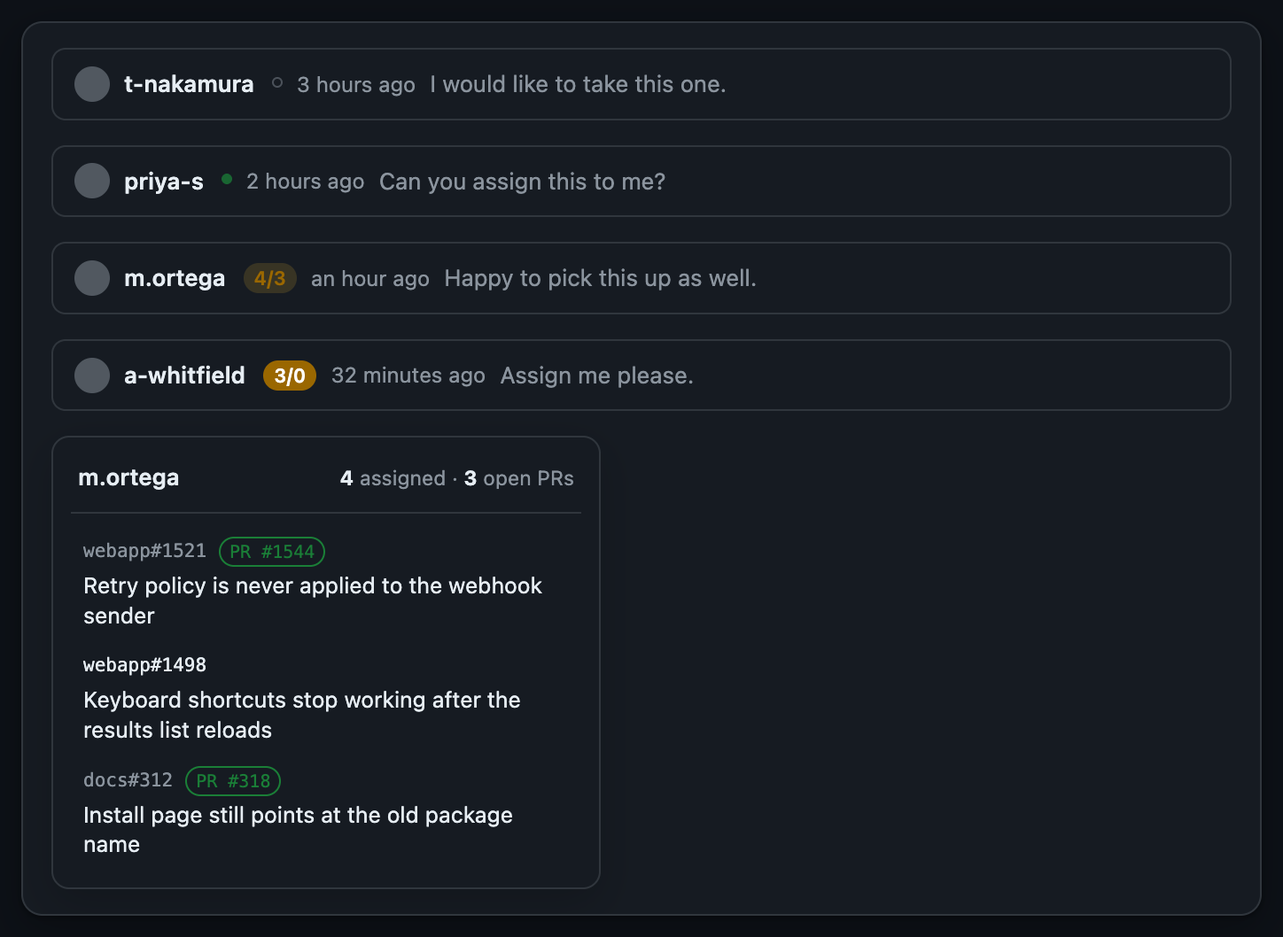
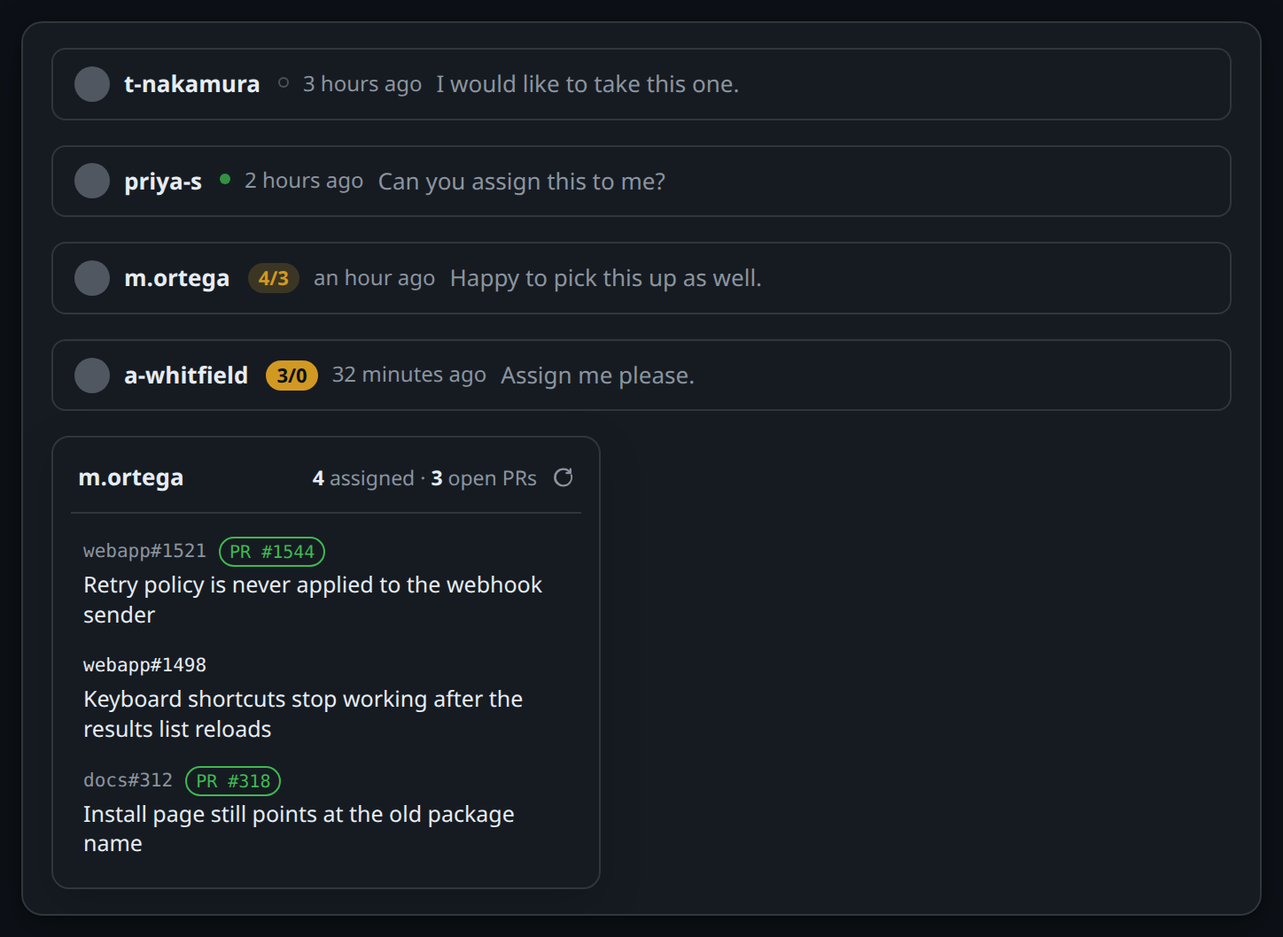
fix(load): retry unreadable marks and complete the docs
Review follow-ups for the contributor load mark: a failed read now shows up again once a retry works, passing over a name no longer reads it, and the site, settings page, README and privacy policy cover the feature everywhere the other badges are described.

- A mark that could not be read is replaced when hovering the name again succeeds, instead of staying red while the fresh answer is discarded.
- Leaving a username before the hover delay cancels the pending read, so moving the pointer across a thread does not query every name it touches.
- The refresh button in the card updates every mark for that person on the page, not only the one it was opened from.
- An empty limit field on the settings page saves the default of 1 instead of 0.
- The settings card drops the "New" pill, lists the red outlined mark for a failed read and says counts cover the repositories the token can read; the legend counts are no longer italic.
- The site mock-up uses the site's own colour tokens, so it follows the dark theme, and its card shows the refresh button.
- The badge reference on the site lists the contributor load marks, the settings intro and the "What is sent" card mention them, "How it works" gains a step for the hover query, and two FAQ entries explain the hover-only read and which issues are counted.
- README notes the token scope, the failed-read mark and the hover-only read; `PRIVACY.md` lists the contributor read in the request summary and the host permission.
[…]

diff --git a/docs/index.html b/docs/index.html
@@ -303,29 +303,32 @@
 
     /* Contributor load: a comment header carrying the mark, and the card it opens */
     .mock-load { display: flex; flex-direction: column; gap: 14px; }
-    .mock-load .cmt { display: flex; align-items: center; gap: 8px; padding: 9px 12px; border: 1px solid var(--border); border-radius: 8px; background: var(--card); font-size: 13px; }
-    .mock-load .av { width: 20px; height: 20px; border-radius: 50%; background: var(--muted-bg, #8b949e); opacity: .5; flex: none; }
+    .mock-load .cmt { display: flex; align-items: center; gap: 8px; padding: 9px 12px; border: 1px solid var(--border); border-radius: 8px; background: var(--bg-card); font-size: 13px; }
+    .mock-load .av { width: 20px; height: 20px; border-radius: 50%; background: var(--fg-muted); opacity: .5; flex: none; }
     .mock-load .who { font-weight: 600; }
-    .mock-load .when { color: var(--muted-fg, #8b949e); font-size: 12px; }
-    .mock-load .said { color: var(--muted-fg, #8b949e); }
+    .mock-load .when { color: var(--fg-muted); font-size: 12px; }
+    .mock-load .said { color: var(--fg-muted); }
     .ld { display: inline-block; vertical-align: baseline; margin-left: 2px; }
     .ld-dot { width: 6px; height: 6px; border-radius: 50%; position: relative; top: -1px; }
-    .ld-free { background: transparent; box-shadow: inset 0 0 0 1px var(--muted-fg, #8b949e); opacity: .45; }
-    .ld-at { background: var(--green-fg, #1a7f37); opacity: .75; }
-    .ld-n { padding: 0 6px; border-radius: 9999px; font-size: 11px; font-weight: 600; line-height: 17px; font-variant-numeric: tabular-nums; color: var(--yellow-fg, #9a6700); background: var(--yellow-bg, rgba(212,167,44,.18)); }
-    .ld-idle { color: #fff; background: var(--yellow-fg, #9a6700); }
-    .mock-load .card2 { width: 310px; padding: 10px; border: 1px solid var(--border); border-radius: 10px; background: var(--card); box-shadow: 0 8px 24px rgba(0,0,0,.18); }
-    .mock-load .ch { display: flex; align-items: baseline; justify-content: space-between; gap: 10px; padding: 2px 4px 9px; margin-bottom: 7px; border-bottom: 1px solid var(--border); }
+    .ld-free { background: transparent; box-shadow: inset 0 0 0 1px var(--fg-muted); opacity: .45; }
+    .ld-at { background: var(--success); opacity: .75; }
+    .ld-n { padding: 0 6px; border-radius: 9999px; font-size: 11px; font-weight: 600; line-height: 17px; font-variant-numeric: tabular-nums; color: var(--attention); background: var(--attention-bg); }
+    .ld-idle { color: var(--bg); background: var(--attention); }
+    .ld-err { background: transparent; box-shadow: inset 0 0 0 1px var(--danger); }
+    .palette .bs .ld { margin: 0; align-self: center; top: 0; }
+    .mock-load .card2 { width: 310px; padding: 10px; border: 1px solid var(--border); border-radius: 10px; background: var(--bg-card); box-shadow: 0 8px 24px rgba(0,0,0,.18); }
+    .mock-load .ch { display: flex; align-items: center; gap: 9px; padding: 2px 4px 9px; margin-bottom: 7px; border-bottom: 1px solid var(--border); }
     .mock-load .cn { font-size: 13px; font-weight: 600; }
-    .mock-load .cs { font-size: 11.5px; color: var(--muted-fg, #8b949e); white-space: nowrap; }
+    .mock-load .cs { margin-left: auto; font-size: 11.5px; color: var(--fg-muted); white-space: nowrap; }
     .mock-load .cs b { color: var(--fg); }
-    .mock-load .cs .zero { color: var(--yellow-fg, #9a6700); }
+    .mock-load .cs .zero { color: var(--attention); }
     .mock-load .cr { display: flex; flex-direction: column; gap: 2px; padding: 6px 7px; border-radius: 6px; }
     .mock-load .cm { display: flex; align-items: center; gap: 7px; }
     .mock-load .cref { font-family: ui-monospace, SFMono-Regular, Menlo, monospace; font-size: 10.5px; font-weight: 500; color: var(--fg); }
-    .mock-load .cr.linked .cref { color: var(--muted-fg, #8b949e); }
-    .mock-load .cpr { padding: 0 5px; border: 1px solid var(--green-fg, #1a7f37); border-radius: 9999px; font-family: ui-monospace, SFMono-Regular, Menlo, monospace; font-size: 10px; line-height: 15px; color: var(--green-fg, #1a7f37); }
+    .mock-load .cr.linked .cref { color: var(--fg-muted); }
+    .mock-load .cpr { padding: 0 5px; border: 1px solid var(--success); border-radius: 9999px; font-family: ui-monospace, SFMono-Regular, Menlo, monospace; font-size: 10px; line-height: 15px; color: var(--success); }
     .mock-load .ct { font-size: 12.5px; line-height: 1.35; }
+      .mock-load .crf { width: 12px; height: 12px; fill: var(--fg-muted); flex: none; }
   </style>
 </head>
 <body>
@@ -498,7 +501,7 @@
         <div class="cmt"><span class="av"></span><span class="who">m.ortega</span><span class="ld ld-n">4/3</span><span class="when">an hour ago</span><span class="said">Happy to pick this up as well.</span></div>
         <div class="cmt"><span class="av"></span><span class="who">a-whitfield</span><span class="ld ld-n ld-idle">3/0</span><span class="when">32 minutes ago</span><span class="said">Assign me please.</span></div>
         <div class="card2">
-          <div class="ch"><span class="cn">m.ortega</span><span class="cs"><b>4</b> assigned &middot; <b>3</b> open PRs</span></div>
+          <div class="ch"><span class="cn">m.ortega</span><span class="cs"><b>4</b> assigned &middot; <b>3</b> open PRs</span><svg class="crf" viewBox="0 0 16 16" aria-hidden="true"><path d="M8 2.5a5.5 5.5 0 1 0 5.17 3.63.75.75 0 0 1 1.41.5A7 7 0 1 1 8 1a6.97 6.97 0 0 1 4.5 1.64V1.75a.75.75 0 0 1 1.5 0v3a.75.75 0 0 1-.75.75h-3a.75.75 0 0 1 0-1.5h1.3A5.47 5.47 0 0 0 8 2.5Z"/></svg></div>
           <div class="cr linked"><div class="cm"><span class="cref">webapp#1521</span><span class="cpr">PR #1544</span></div><div class="ct">Retry policy is never applied to the webhook sender</div></div>
           <div class="cr"><div class="cm"><span class="cref">webapp#1498</span></div><div class="ct">Keyboard shortcuts stop working after the results list reloads</div></div>
           <div class="cr linked"><div class="cm"><span class="cref">docs#312</span><span class="cpr">PR #318</span></div><div class="ct">Install page still points at the old package name</div></div>
@@ -509,7 +512,7 @@
       <h3 style="margin-top:28px">Every badge at a glance</h3>
       <p class="muted" style="font-size:14px">Colours follow GitHub's own tokens, so they adapt to light and dark themes. Green invites a look, yellow means attention, red means work, blue is trust, gray is neutral information.</p>
       <div class="panel gh-card palette" id="ex-palette" style="max-width:760px;padding:14px 16px">
-        <div class="g"><div class="gt">Pull request author</div><div class="bs"><span class="badge b-success">First-time contributor</span><span class="badge b-success">First PR on GitHub</span><span class="badge b-done">External</span><span class="badge b-neutral">Contributor</span><span class="badge b-info">Collaborator</span><span class="badge b-info">Member</span><span class="badge b-info">Owner</span><span class="badge b-neutral">Bot</span></div></div><div class="g"><div class="gt">Pull request fork and size</div><div class="bs"><span class="badge b-neutral">From fork</span><span class="badge b-neutral size"><span class="add">+231</span> <span class="del">-13</span></span></div></div><div class="g"><div class="gt">Pull request merge state</div><div class="bs"><span class="badge b-success">Mergeable</span><span class="badge b-attention">Behind base</span><span class="badge b-danger">Blocked</span><span class="badge b-danger">Conflicts</span><span class="badge b-attention">Checks failing</span></div></div><div class="g"><div class="gt">Issue age, and past the threshold</div><div class="bs"><span class="badge b-neutral">3w</span><span class="badge b-neutral">98d</span><span class="badge b-neutral">this month</span><span class="badge b-attention">7 mo</span></div></div><div class="g"><div class="gt">Custom field values, one colour per option</div><div class="bs"><span class="badge b-danger">Red</span><span class="badge b-severe">Orange</span><span class="badge b-attention">Yellow</span><span class="badge b-success">Green</span><span class="badge b-info">Blue</span><span class="badge b-done">Purple</span><span class="badge b-pink">Pink</span><span class="badge b-neutral">Gray</span></div></div><div class="g"><div class="gt">Issue types in the pinned issues panel</div><div class="bs"><span class="badge b-pink">Epic</span><span class="badge b-danger">Bug</span><span class="badge b-info">Feature</span><span class="badge b-attention">Task</span></div></div>
+        <div class="g"><div class="gt">Pull request author</div><div class="bs"><span class="badge b-success">First-time contributor</span><span class="badge b-success">First PR on GitHub</span><span class="badge b-done">External</span><span class="badge b-neutral">Contributor</span><span class="badge b-info">Collaborator</span><span class="badge b-info">Member</span><span class="badge b-info">Owner</span><span class="badge b-neutral">Bot</span></div></div><div class="g"><div class="gt">Pull request fork and size</div><div class="bs"><span class="badge b-neutral">From fork</span><span class="badge b-neutral size"><span class="add">+231</span> <span class="del">-13</span></span></div></div><div class="g"><div class="gt">Pull request merge state</div><div class="bs"><span class="badge b-success">Mergeable</span><span class="badge b-attention">Behind base</span><span class="badge b-danger">Blocked</span><span class="badge b-danger">Conflicts</span><span class="badge b-attention">Checks failing</span></div></div><div class="g"><div class="gt">Issue age, and past the threshold</div><div class="bs"><span class="badge b-neutral">3w</span><span class="badge b-neutral">98d</span><span class="badge b-neutral">this month</span><span class="badge b-attention">7 mo</span></div></div><div class="g"><div class="gt">Contributor load: nothing assigned, within the limit, over it, over it with nothing pushed, not readable</div><div class="bs"><span class="ld ld-dot ld-free"></span><span class="ld ld-dot ld-at"></span><span class="ld ld-n">4/3</span><span class="ld ld-n ld-idle">3/0</span><span class="ld ld-dot ld-err"></span></div></div><div class="g"><div class="gt">Custom field values, one colour per option</div><div class="bs"><span class="badge b-danger">Red</span><span class="badge b-severe">Orange</span><span class="badge b-attention">Yellow</span><span class="badge b-success">Green</span><span class="badge b-info">Blue</span><span class="badge b-done">Purple</span><span class="badge b-pink">Pink</span><span class="badge b-neutral">Gray</span></div></div><div class="g"><div class="gt">Issue types in the pinned issues panel</div><div class="bs"><span class="badge b-pink">Epic</span><span class="badge b-danger">Bug</span><span class="badge b-info">Feature</span><span class="badge b-attention">Task</span></div></div>
       </div>
 
       <h3 style="margin-top:28px">Pinned issues</h3>
@@ -539,6 +542,7 @@
         <div class="step"><h3>One batched query</h3><p>The background script (a service worker on Chromium, an event page on Firefox) groups those issues by repository and runs one GraphQL query per batch of 60 using <code>Issue.issueFieldValues</code> and <code>createdAt</code>, with your token. Pull request lists get the same treatment with <code>authorAssociation</code>, size and <code>mergeStateStatus</code>.</p></div>
         <div class="step"><h3>Keep what you chose</h3><p>From the returned values it keeps only the fields you configured, in your order, and hands back <code>field</code>, <code>value</code>, <code>colour</code> and the creation date per issue.</p></div>
         <div class="step"><h3>Or draw a board</h3><p>When the kanban toggle is on, the sub-issues of the open issue are read in one <code>subIssues</code> query with every field value they carry, and drawn as columns in place of the list. Grouping, ordering and filtering happen in the page, so switching any of them is instant. Dropping a card in another column is the one write: <code>createIssueFieldValue</code> for a field, <code>closeIssue</code> or <code>reopenIssue</code> for the state, with the card moving back if GitHub refuses.</p></div>
+        <div class="step"><h3>Or ask about a person</h3><p>With the contributor load mark on, hovering a username runs two <code>search</code> queries in one request: the open issues assigned to that login in the organization, and the open pull requests they authored, with <code>closingIssuesReferences</code> pairing each issue with the pull request that closes it. Nothing is read until you hover, and each person is cached for ten minutes.</p></div>
         <div class="step"><h3>Render badges</h3><p>The content script inserts a badge per value right after the issue type badge, after the issue number in project tables, or under the title on board cards, plus the age badge when enabled. It re-renders when GitHub redraws the page.</p></div>
       </div>
       <pre><code>{ r0: repository(owner: "org", name: "repo") {
@@ -615,7 +619,7 @@
   <section id="settings">
     <div class="wrap">
       <h2>Settings</h2>
-      <p class="muted">The token and the fields to show are the two essentials; the age badge, the pull request badges, the epic kanban toggle, the sidebar button and the pinned issues button are optional extras with their own cards. Each field is a chip. Press <kbd>Enter</kbd> or <kbd>,</kbd> to add one, <kbd>Backspace</kbd> or the × button to remove one. Names are matched case-insensitively against the fields your organization defines, and badges appear in the order of the chips. Nothing is shown until at least one field is added or the age badge is enabled.</p>
+      <p class="muted">The token and the fields to show are the two essentials; the age badge, the pull request badges, the contributor load mark, the epic kanban toggle, the sidebar button and the pinned issues button are optional extras with their own cards. Each field is a chip. Press <kbd>Enter</kbd> or <kbd>,</kbd> to add one, <kbd>Backspace</kbd> or the × button to remove one. Names are matched case-insensitively against the fields your organization defines, and badges appear in the order of the chips. Nothing is shown until at least one field is added or the age badge is enabled.</p>
       <figure>
         <img class="only-light" src="settings-light.png" alt="The settings page: token input and the field names chip box">
         <img class="only-dark" src="settings-dark.png" alt="The settings page in dark mode: token input and the field names chip box">
@@ -642,7 +646,7 @@
       <h2>Privacy</h2>
       <div class="grid">
         <div class="card"><h3>What is stored</h3><p>Your token, your field list, your preferences and your pinned issues, in <code>chrome.storage.local</code>, on your device. Uninstalling removes all of it.</p></div>
-        <div class="card"><h3>What is sent</h3><p>Repository owner, name and issue number of the issues on the page you are viewing, to <code>api.github.com</code>, with your token in the header. The only writes are the sub-issue link you click and the card you drag on the board. Nothing else, to no one else.</p></div>
+        <div class="card"><h3>What is sent</h3><p>Repository owner, name and issue number of the issues on the page you are viewing, to <code>api.github.com</code>, with your token in the header. With the contributor load mark on, the login you hover and the organization of the page. The only writes are the sub-issue link you click and the card you drag on the board. Nothing else, to no one else.</p></div>
         <div class="card"><h3>What is not</h3><p>No analytics, telemetry, crash reports, cookies or third-party services. The full policy is in <a href="https://github.com/MilosPaunovic/github-issue-toolkit/blob/main/PRIVACY.md">PRIVACY.md</a>.</p></div>
       </div>
     </div>
@@ -657,6 +661,8 @@
       <details><summary>Can I move a card on the kanban board?</summary><p>Yes, when the columns come from a single-select field or from the issue state: dragging a card writes the new field value, or closes and reopens the issue, through the GitHub API; an issue closed as not planned is closed that way again. Dropping it in the "No <em>field</em>" column clears the value. Columns made of types or assignees are not drop targets, and cards there cannot be dragged. Dragging needs a token with write access; it can be switched off in the settings, and nothing is ever written unless you drag.</p></details>
       <details><summary>Can I see only one sprint, or only the P1 issues?</summary><p>Yes. The Filter control keeps one value of any dimension, the same ones the columns can be made of, and the count in the toolbar says how many of the epic's sub-issues are left. Filtering happens in the page, so the columns stay as they are and switching back costs nothing.</p></details>
       <details><summary>Can I hide the done sub-issues?</summary><p>Yes. The Hide closed checkbox in the toolbar takes every closed sub-issue off the board, whatever the columns are made of, and the count in the toolbar says how many are left. The choice is remembered like the others. With the columns made of the issue state, the empty Closed column stays, so a card can still be dragged there to close it.</p></details>
+      <details><summary>Why does a username get a mark only after I hover it?</summary><p>Because each mark is a query about one person. Reading every name on a long thread up front would spend requests on people you never meant to look at, so the contributor load mark waits for you to rest on a name. Your own name never gets one. A red outlined dot means the read failed, usually because no token is set; hovering the name again retries.</p></details>
+      <details><summary>Which issues does the contributor count include?</summary><p>Open issues assigned to that person in the organization of the page, and open pull requests they authored there, as GitHub search returns them for your token. A repository your token cannot read is left out, so a fine-grained token limited to a few repositories counts only those. The pull request shown next to an issue comes from GitHub's own link between them, not from closing keywords.</p></details>
       <details><summary>The kanban board says the epic has more sub-issues than it shows.</summary><p>The board loads up to 500 sub-issues, in pages of 100. Beyond that the count in the toolbar reads "500 of 640" and the rest is left out.</p></details>
       <details><summary>Where does the sidebar go when I hide it?</summary><p>Nowhere: the extension sets <code>display: none</code> on GitHub's metadata column, the same thing GitHub does when its own artifacts panel opens, and its content area grows into the space by itself. The chevron stays in the gutter, so pressing it again brings the sidebar straight back. Nothing is changed on GitHub's side and nothing is sent anywhere.</p></details>
       <details><summary>Does linking need extra permissions?</summary><p>Yes. Making an issue a sub-issue of a pinned epic writes to GitHub, so the token needs write access to the issue's repository: the <code>repo</code> scope on a classic token, or <code>Issues: Read and write</code> on a fine-grained one. Badges alone work with read-only access.</p></details>

diff --git a/options.html b/options.html
@@ -61,16 +61,17 @@
     .card { background: var(--bg-surface); border: 1px solid var(--border-default); border-radius: 12px; padding: 24px; margin-bottom: 16px; }
     .card.access { border-color: var(--accent); }
     .card h2 { font-size: 15px; font-weight: 600; margin: 0 0 4px; }
-    .card h2 .new { margin-left: 8px; padding: 1px 7px; border: 1px solid rgba(26, 127, 55, 0.4); border-radius: 9999px; background: rgba(26, 127, 55, 0.12); color: #1a7f37; font-size: 11px; font-weight: 600; vertical-align: 1px; }
     .marks { display: grid; grid-template-columns: 28px 1fr; gap: 10px 10px; align-items: center; margin-top: 14px; }
     .marks > span:nth-child(odd) { display: flex; justify-content: center; }
     .marks .t { color: var(--text-secondary); font-size: 13px; }
     .marks .t b { color: var(--text-primary); font-weight: 600; }
+    .marks i { font-style: normal; }
     .mk-dot { width: 7px; height: 7px; border-radius: 50%; display: inline-block; }
     .mk-free { box-shadow: inset 0 0 0 1px var(--text-secondary); opacity: .5; }
     .mk-at { background: #1a7f37; opacity: .8; }
     .mk-n { padding: 1px 6px; border-radius: 9999px; font-size: 11px; font-weight: 600; font-variant-numeric: tabular-nums; color: #9a6700; background: rgba(154, 103, 0, 0.14); }
     .mk-idle { color: #ffffff; background: #9a6700; }
+    .mk-err { box-shadow: inset 0 0 0 1px #d1242f; }
     .card p.desc { color: var(--text-secondary); margin: 0 0 16px; font-size: 13px; }
     label { display: block; font-weight: 600; font-size: 13px; margin: 16px 0 6px; }
     label:first-of-type { margin-top: 0; }
@@ -129,10 +130,10 @@
     @media (prefers-color-scheme: dark) {
       .chip.c0 { --chip-fg: #58a6ff; } .chip.c1 { --chip-fg: #a371f7; } .chip.c2 { --chip-fg: #3fb950; }
       .chip.c3 { --chip-fg: #f0883e; } .chip.c4 { --chip-fg: #db61a2; } .chip.c5 { --chip-fg: #8b949e; }
-      .card h2 .new { border-color: rgba(63, 185, 80, 0.4); background: rgba(63, 185, 80, 0.15); color: #3fb950; }
       .mk-at { background: #3fb950; }
       .mk-n { color: #d29922; background: rgba(210, 153, 34, 0.16); }
       .mk-idle { color: #1f2328; background: #d29922; }
+      .mk-err { box-shadow: inset 0 0 0 1px #ff8182; }
       .chip button:hover { background: rgba(255, 255, 255, 0.12); }
     }
     kbd { font: 11px var(--font-mono); padding: 1px 5px; border: 1px solid var(--border-default); border-bottom-width: 2px; border-radius: 4px; background: var(--code-bg); }
@@ -225,7 +226,7 @@
     </section>
 
     <section class="card">
-      <h2>Contributor load <span class="new">New</span></h2>
+      <h2>Contributor load</h2>
       <p class="desc">On an issue or pull request, a mark next to a username saying what that person already holds in the same organization. For deciding whether to assign someone one more thing.</p>
       <label class="check"><input id="load-enabled" type="checkbox"> Show what each contributor is holding (off by default)</label>
       <label for="load-limit">Flag anyone assigned more than (issues)</label>
@@ -236,8 +237,9 @@
         <span><i class="mk-dot mk-at"></i></span><span class="t">At or under the limit.</span>
         <span><i class="mk-n">4/3</i></span><span class="t">Over the limit. <b>Four assigned, three pull requests open.</b></span>
         <span><i class="mk-n mk-idle">3/0</i></span><span class="t">Over the limit and <b>nothing pushed yet</b>.</span>
+        <span><i class="mk-dot mk-err"></i></span><span class="t">Could not be read, usually a missing token. Hover the name again to retry.</span>
       </div>
-      <p class="hint">Hovering the mark lists every issue that person holds, each with the pull request that closes it when there is one, and carries a refresh button for when the ten minute cache is behind. Your own name gets no mark.</p>
+      <p class="hint">Hovering the mark lists every issue that person holds, each with the pull request that closes it when there is one, and carries a refresh button for when the ten minute cache is behind. Your own name gets no mark. Counts cover the repositories your token can read, so a fine-grained token limited to a few repositories sees only those.</p>
     </section>
 
     <section class="card">

diff --git a/content.js b/content.js
@@ -690,8 +690,14 @@
     if (!anchor.isConnected) return;
     // A read that failed is worth trying again the next time the name is hovered.
     if (!data) delete anchor.dataset.gsfLoad;
-    if (anchor.nextElementSibling && anchor.nextElementSibling.classList.contains("gsf-load")) return;
-    anchor.after(loadBadge(org, login, data));
+    const badge = loadBadge(org, login, data);
+    const existing = anchor.nextElementSibling;
+    if (existing && existing.classList.contains("gsf-load")) {
+      // Only a mark that could not be read gives way, so a retry that worked shows up.
+      if (existing.dataset.state === "err") existing.replaceWith(badge);
+      return;
+    }
+    anchor.after(badge);
   }
 
   function loadCardElement() {
@@ -842,11 +848,14 @@
     if (loadCard) loadCard.dataset.busy = "1";
     const data = await loadFetch(org, login, true);
     if (loadCard) delete loadCard.dataset.busy;
-    if (loadAnchor && loadAnchor.isConnected) {
-      const fresh = loadBadge(org, login, data);
-      loadAnchor.replaceWith(fresh);
-      loadAnchor = fresh;
-    }
+    // Every mark for the same person, not only the hovered one, since the cache now holds the new answer.
+    document.querySelectorAll(".gsf-load").forEach((mark) => {
+      const payload = loadPayloads.get(mark);
+      if (!payload || payload.org !== org || payload.login.toLowerCase() !== login.toLowerCase()) return;
+      const fresh = loadBadge(org, payload.login, data);
+      mark.replaceWith(fresh);
+      if (mark === loadAnchor) loadAnchor = fresh;
+    });
     loadCardBuild({ org, login, data });
     if (loadAnchor && loadAnchor.isConnected) loadCardPlace(loadAnchor);
   }
@@ -912,7 +921,12 @@
   });
 
   document.addEventListener("mouseout", (event) => {
-    if (event.target && event.target.closest && event.target.closest(".gsf-load")) loadCardHide();
+    const target = event.target;
+    if (!target || !target.closest) return;
+    if (target.closest(".gsf-load")) loadCardHide();
+    // Passing over a name on the way somewhere else is not a hover, so nothing is read for it.
+    const anchor = target.closest("a[data-hovercard-type=\"user\"], a.author");
+    if (anchor && !anchor.contains(event.relatedTarget)) clearTimeout(loadHoverTimer);
   });
 
   // The page moving under the card leaves it pointing at nothing, so it closes. Its own list

diff --git a/options.js b/options.js
@@ -155,7 +155,7 @@ document.getElementById("save").addEventListener("click", async () => {
   const token = tokenInput.value.trim();
   const fieldList = fields.join(", ");
   if (!hasChrome) return setStatus("Preview mode: nothing saved.", false);
-  await api.storage.local.set({ token, fields: fieldList, ageEnabled: ageEnabled.checked, ageUnit: ageUnit.value, ageWarnDays: Math.max(0, parseInt(ageWarn.value, 10) || 0), pinsEnabled: pinsEnabledInput.checked, skipShownFields: skipShownInput.checked, kanbanEnabled: kanbanEnabledInput.checked, kanbanDrag: kanbanDragInput.checked, sidebarToggle: sidebarToggleInput.checked, prAssociation: prInputs.prAssociation.checked, prFork: prInputs.prFork.checked, prSize: prInputs.prSize.checked, prMergeState: prInputs.prMergeState.checked, loadEnabled: loadEnabledInput.checked, loadLimit: Math.max(0, parseInt(loadLimit.value, 10) || 0) });
+  await api.storage.local.set({ token, fields: fieldList, ageEnabled: ageEnabled.checked, ageUnit: ageUnit.value, ageWarnDays: Math.max(0, parseInt(ageWarn.value, 10) || 0), pinsEnabled: pinsEnabledInput.checked, skipShownFields: skipShownInput.checked, kanbanEnabled: kanbanEnabledInput.checked, kanbanDrag: kanbanDragInput.checked, sidebarToggle: sidebarToggleInput.checked, prAssociation: prInputs.prAssociation.checked, prFork: prInputs.prFork.checked, prSize: prInputs.prSize.checked, prMergeState: prInputs.prMergeState.checked, loadEnabled: loadEnabledInput.checked, loadLimit: Number.isFinite(parseInt(loadLimit.value, 10)) ? Math.max(0, parseInt(loadLimit.value, 10)) : 1 });
   if (!token) setStatus("Saved without a token. Badges need one.", false);
   else if (!fields.length && !ageEnabled.checked) setStatus("Saved without any field. Add a field or enable the age badge to show badges.", false);
   else setStatus("Saved. Reload the GitHub tab if badges do not appear.", true);

diff --git a/PRIVACY.md b/PRIVACY.md
@@ -4,7 +4,7 @@ GitHub Issue Toolkit is a browser extension that displays the values of GitHub c
 
 ## Data the extension handles
 
-- **GitHub personal access token.** You enter it on the extension's settings page. It is stored with `chrome.storage.local`, on your device only, and is sent exclusively to `https://api.github.com/graphql` in the `Authorization` header. It is never sent anywhere else. All requests read data (issue field values, creation dates, the sub-issues of an issue you view as a board, and the title and type of issues you pin), with two exceptions: when you click **Link** in the pinned issues panel, the extension makes the current issue a sub-issue of the pinned one (`addSubIssue`), and when you drag a card to another column on the kanban board, it writes that column's value to the issue (`createIssueFieldValue`, `deleteIssueFieldValue`) or closes and reopens the issue (`closeIssue`, `reopenIssue`). Nothing is written without that click or that drag.
+- **GitHub personal access token.** You enter it on the extension's settings page. It is stored with `chrome.storage.local`, on your device only, and is sent exclusively to `https://api.github.com/graphql` in the `Authorization` header. It is never sent anywhere else. All requests read data (issue field values, creation dates, the sub-issues of an issue you view as a board, the title and type of issues you pin, and the open issues and pull requests of a contributor whose name you hover), with two exceptions: when you click **Link** in the pinned issues panel, the extension makes the current issue a sub-issue of the pinned one (`addSubIssue`), and when you drag a card to another column on the kanban board, it writes that column's value to the issue (`createIssueFieldValue`, `deleteIssueFieldValue`) or closes and reopens the issue (`closeIssue`, `reopenIssue`). Nothing is written without that click or that drag.
 - **Issue and pull request references.** For the issues and pull requests visible on the page you are viewing (sub-issue lists, project tables and boards, pull request lists), the extension sends the repository owner, repository name and number to the GitHub API to fetch the field values, creation dates, and for pull requests the author's relation to the repository, fork origin, size and merge state. With the kanban board open it sends the owner, name and number of the issue you are looking at to read its sub-issues: their numbers, titles, states, types, assignees, creation dates and field values. Results are kept in memory for a few minutes and are discarded when the tab closes.
 - **Usernames you hover.** With the contributor load mark enabled, hovering a username on an issue or pull request sends that login and the organization in the page URL to the GitHub API, to read how many open issues are assigned to that person, how many open pull requests they have, and the titles and references of up to twenty five of those issues together with the pull requests that close them. It is a read, it happens only on hover, and the result is kept in memory for ten minutes. Your own login is read once so the mark can skip your name.
 - **Settings and pins.** Your list of field names, the age badge, pull request badge, contributor load, kanban, sidebar and pinned issues preferences (including whether the board or the list is shown, the field the board groups by, the one it orders by, the filter, whether closed sub-issues are hidden, and whether the issue sidebar is folded away), and the issues you pin (repository, number, title, type) are stored with `chrome.storage.local` on your device.
@@ -18,7 +18,7 @@ GitHub Issue Toolkit is a browser extension that displays the values of GitHub c
 ## Permissions
 
 - `storage` - saves the token and the field list locally.
-- Host permission `https://api.github.com/*` - reads issue field values, creation dates, the sub-issues behind the kanban board and pinned issue details through the GitHub GraphQL API, and performs the sub-issue link you request from the pinned issues panel and the card move you perform by dragging.
+- Host permission `https://api.github.com/*` - reads issue field values, creation dates, the sub-issues behind the kanban board, pinned issue details and the contributor load of a hovered username through the GitHub GraphQL API, and performs the sub-issue link you request from the pinned issues panel and the card move you perform by dragging.
 - Content script on `https://github.com/*` - finds sub-issue rows, project table rows, board cards and pull request rows, renders the badges and the kanban board, adds the contributor load mark next to usernames, adds the button that hides the issue sidebar, and adds the pinned issues button to GitHub's header.
 
 On Firefox, access to `github.com` and `api.github.com` is granted by you after installation (the settings page asks for it once); the extension does nothing until then.

diff --git a/README.md b/README.md
@@ -178,6 +178,10 @@ Hovering the mark opens a card with every issue that person holds, scrolling whe
 
 The organization is the one in the page URL, so the mark reads the same whichever organization you are looking at. Your own name gets no mark. Counts are cached for ten minutes per person.
 
+- Counts come from GitHub search with your token, so they cover the repositories that token can read. A fine-grained token limited to a few repositories counts only those.
+- A red outlined dot means the read failed, usually because no token is set. Hovering the name again retries.
+- Nothing is read for a name you only pass over; the mark appears once the pointer rests on it.
+
 ### Pinned issues
 
 A pin button sits in GitHub's top bar, next to the notifications bell, with the number of pinned issues. It opens the pinned issues panel as a dropdown; clicking outside or pressing Escape closes it, and the open or closed state is per tab. On pages without the GitHub header a small floating pin button in the top right corner takes its place. A red dot on the button means the last request failed (for example no token yet); open the panel to read the message. The whole feature can be switched off in the settings.
